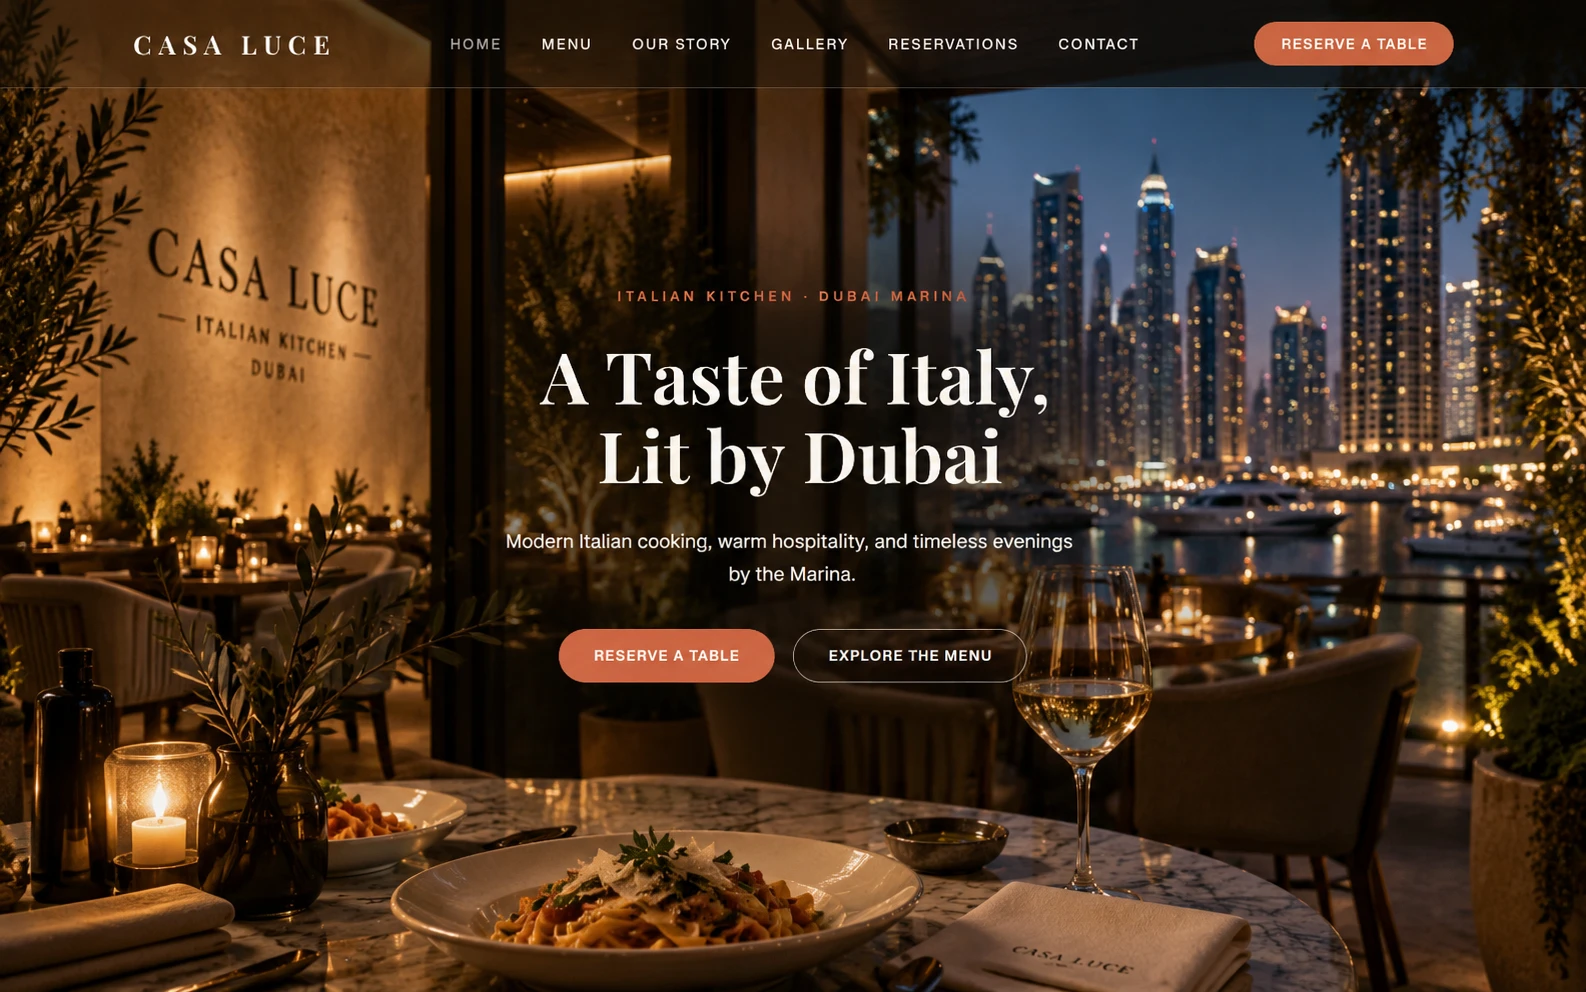
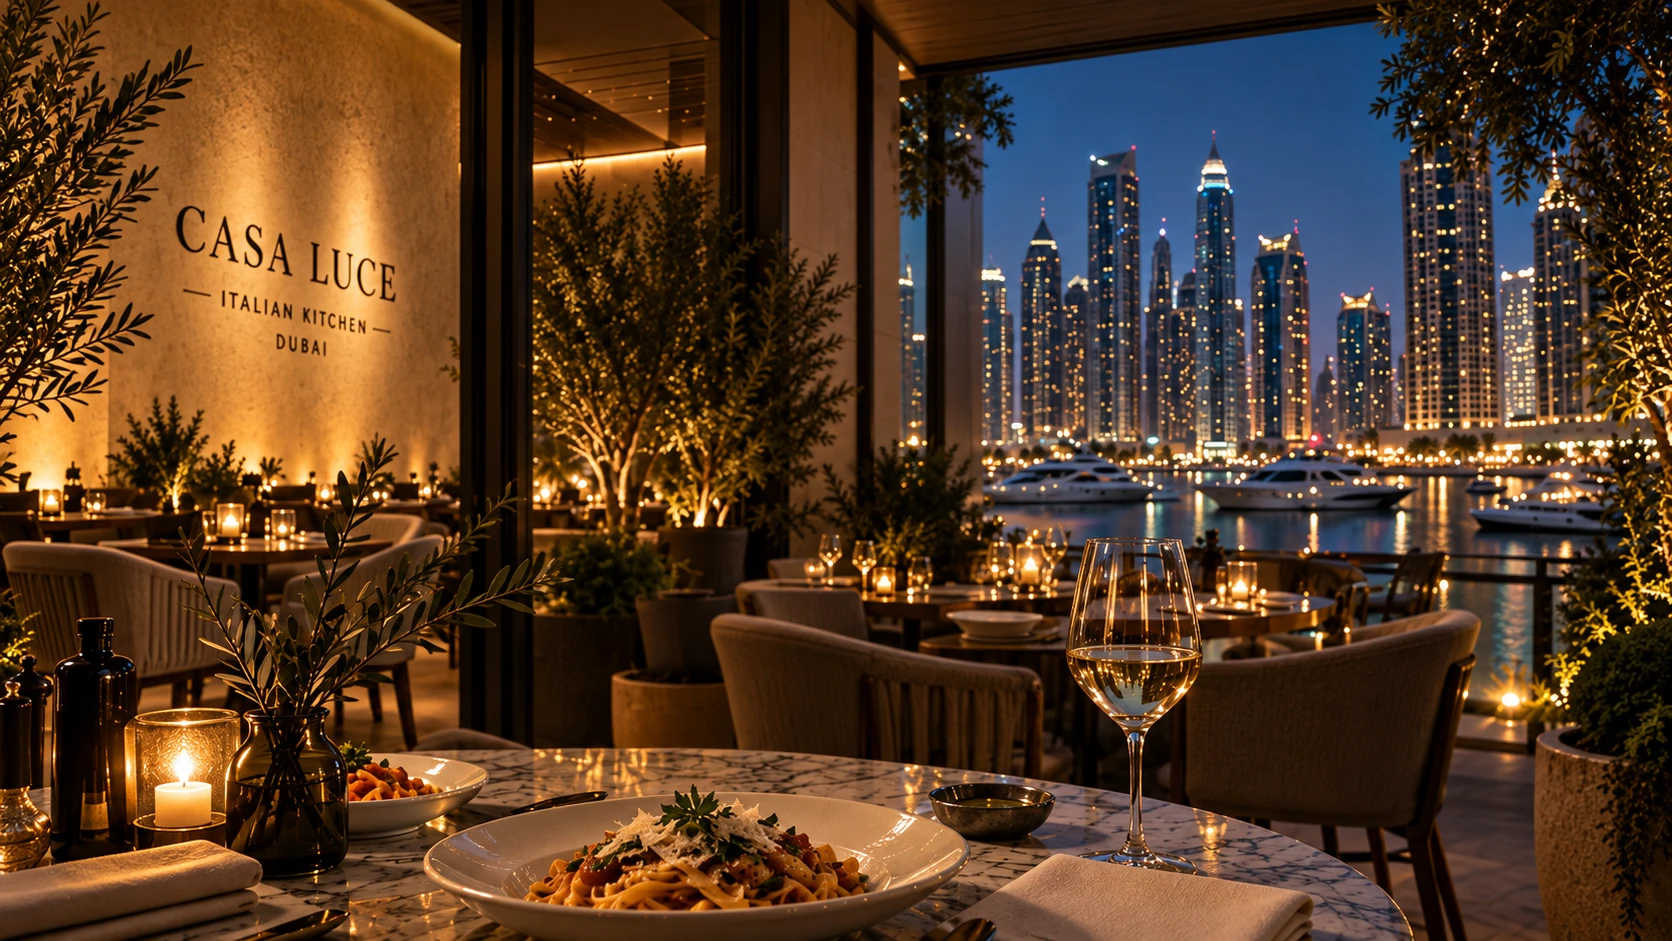
Replace hero image with clean photo and tune overlay
Swaps public/images/casa-luce-hero.png for the clean background
photo (no baked-in text/buttons, unlike the earlier mockup asset).
Lightens the dark overlay now that it only needs to support the live
HTML text's contrast, not mask underlying pixels. object-position
kept at center 38%, verified to keep both the CASA LUCE wall signage
and the Marina skyline in frame across desktop widths, including
wide/short viewports.

Claude-Session: https://claude.ai/code/session_017YnkYBCBDuHCwu4xisax7a

diff --git a/src/components/Hero.tsx b/src/components/Hero.tsx
@@ -12,10 +12,10 @@ export default function Hero() {
         sizes="100vw"
         className="object-cover object-[center_38%]"
       />
-      <div aria-hidden="true" className="absolute inset-0 bg-charcoal/50" />
+      <div aria-hidden="true" className="absolute inset-0 bg-charcoal/35" />
       <div
         aria-hidden="true"
-        className="absolute inset-0 bg-gradient-to-b from-charcoal/75 via-charcoal/45 to-charcoal/85"
+        className="absolute inset-0 bg-gradient-to-b from-charcoal/60 via-charcoal/35 to-charcoal/70"
       />
 
       <div className="relative z-10 mx-auto flex max-w-3xl flex-col items-center px-6 py-32 text-center">
